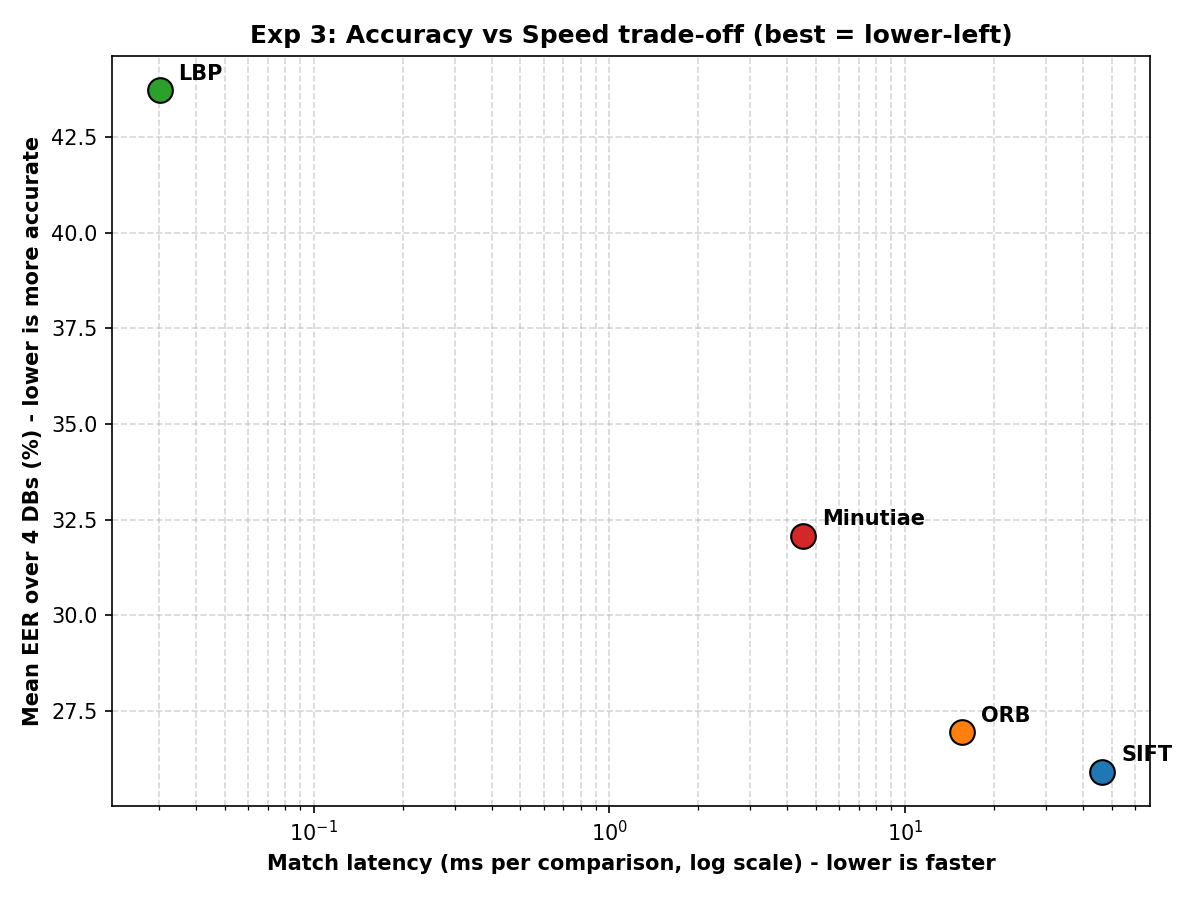
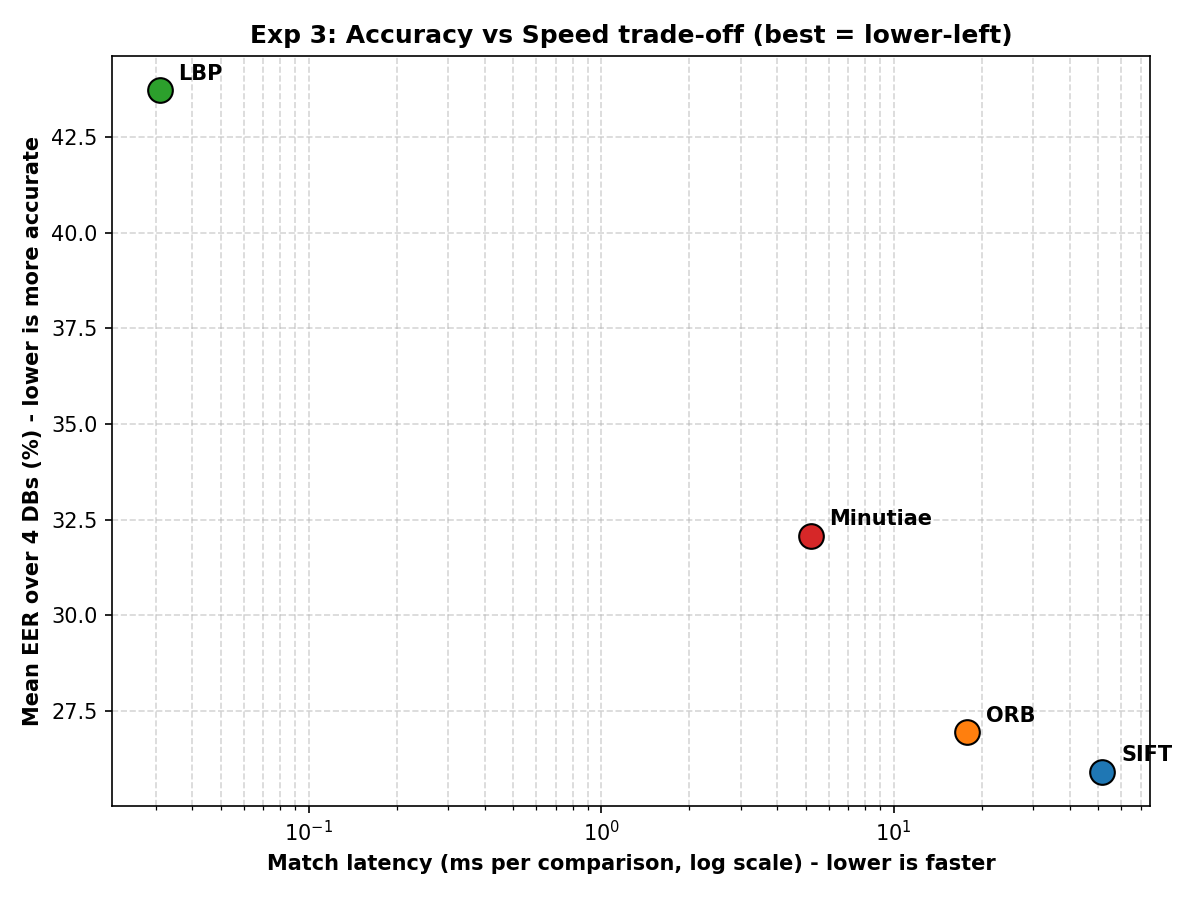
README: add a guided "How to explore this project" section for new readers

diff --git a/README.md b/README.md
@@ -50,6 +50,38 @@ All experiments fix a random seed (`core.io_utils.SEED = 42`) so results are rep
 See **RESEARCH_LOG.md** for methodology and findings, and **results/report_*.md** for
 ready-to-use report text.
 
+## How to explore this project (new readers start here)
+
+**1. Understand the goal (5 min).** Read this README, then skim **RESEARCH_LOG.md** — it tells the
+whole story: what the code did *before*, what was changed, and *why*, with every result.
+
+**2. See the results without running anything.** Open `results/figures/` (the charts) and
+`results/report_exp1_exp2.md` / `report_exp3_exp4.md` (plain-English findings with tables).
+Short version: **SIFT is the most accurate, ORB is the best speed/accuracy balance, LBP is
+unusable for identity, Minutiae is good for visualization.**
+
+**3. Try it yourself (most intuitive first).** With the dataset in place:
+```bash
+python apps/sift_app.py        # choose 2 = 1:N attendance, then enter e.g. 105_2.tif
+python apps/minutiae_app.py    # choose 3 = draw the minutiae map (red=ending, blue=bifurcation)
+python experiments/run_experiments.py --exp 3   # the full algorithm comparison table
+```
+
+**4. Read the code in this order** (each file is small and single-purpose):
+| Step | File | What it contains |
+|------|------|------------------|
+| 1 | `core/io_utils.py` | how images and dataset paths are loaded; the fixed seed |
+| 2 | `core/preprocessing.py` | the 6 preprocessing combos (C1/C2/C3 + Gabor) |
+| 3 | `core/features.py` | the 4 feature extractors (SIFT, ORB, LBP, Minutiae) |
+| 4 | `core/matching.py` | matching + RANSAC and the 4 scoring strategies (S1..S4) |
+| 5 | `core/evaluation.py` | how EER (1:1) and Rank-1 / identification rate (1:N) are computed |
+| 6 | `experiments/run_experiments.py` | ties everything together into the 4 studies |
+| 7 | `apps/*.py` | self-contained interactive demos, one per algorithm |
+
+**One-sentence pitch:** *a comparison of four classical, zero-training fingerprint algorithms
+(SIFT, ORB, LBP, Minutiae) on FVC2002, evaluated for 1:1 verification (EER) and 1:N identification
+(a class-attendance demo), studying preprocessing, the algorithms themselves, and scoring.*
+
 ## Dataset
 FVC2002 (set B: 10 fingers × 8 impressions per database, DB1–DB4). It is licence-restricted
 and therefore not committed; download it (e.g. from Kaggle) and place each database under